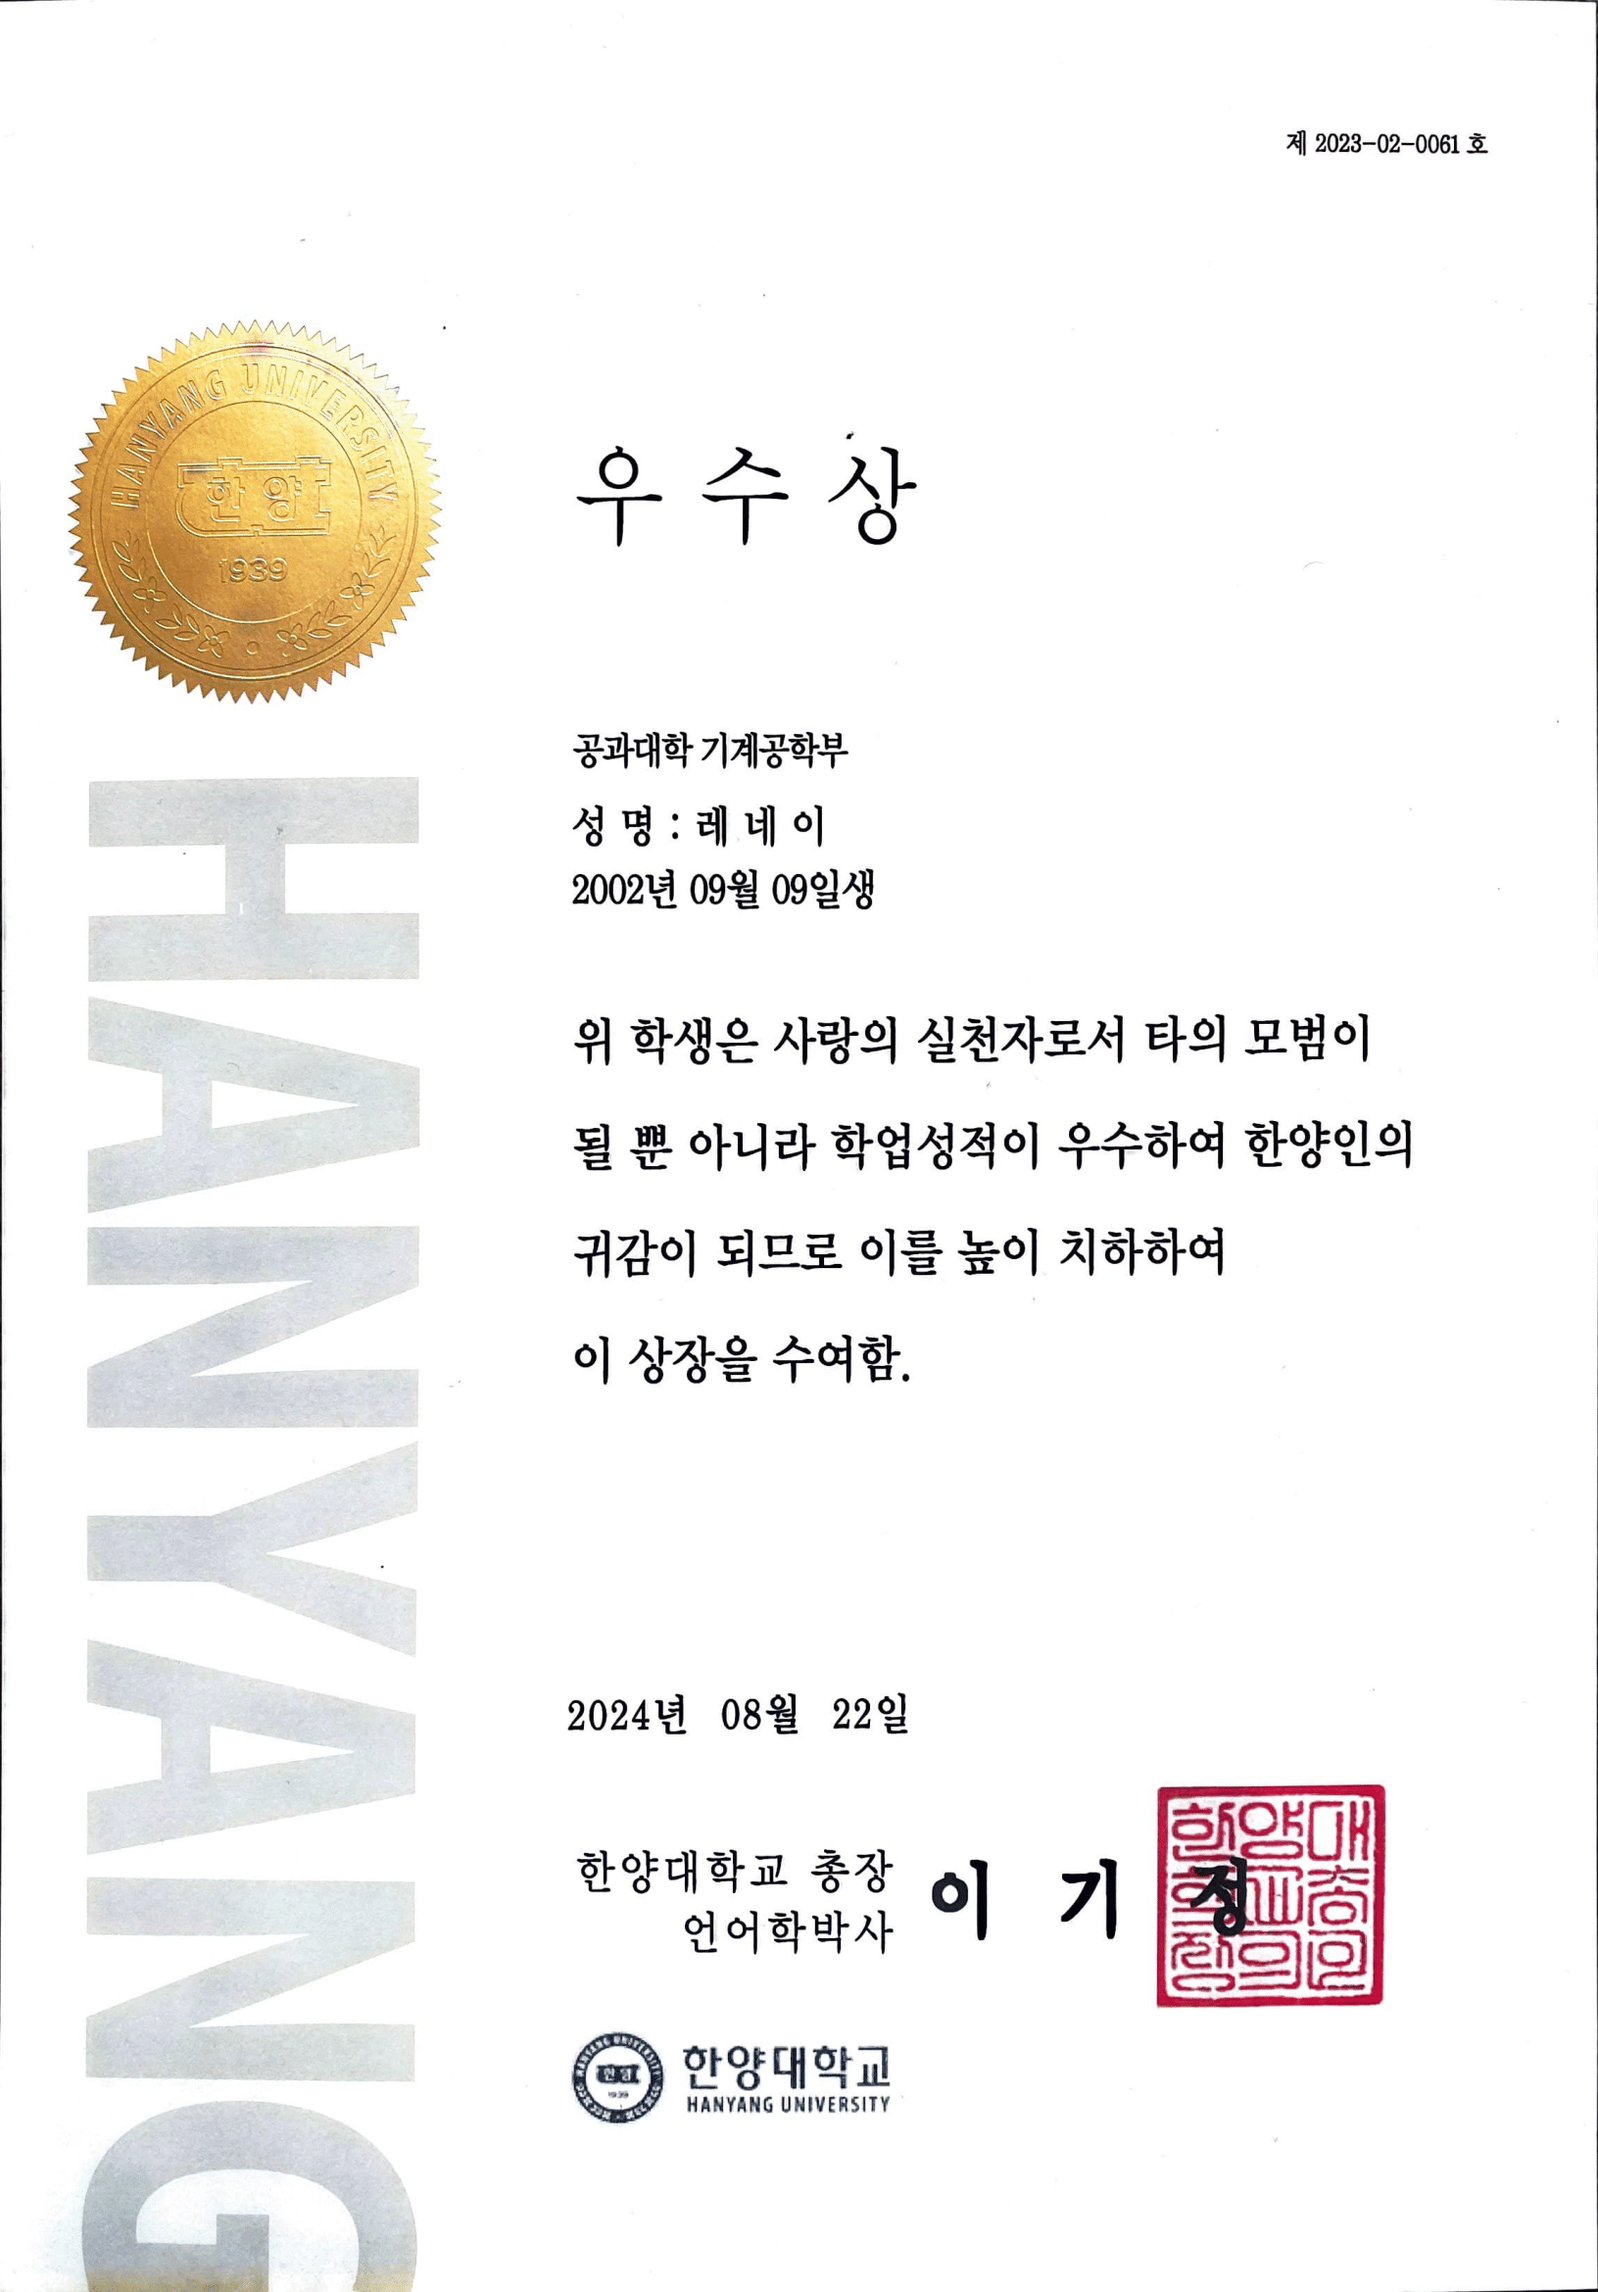
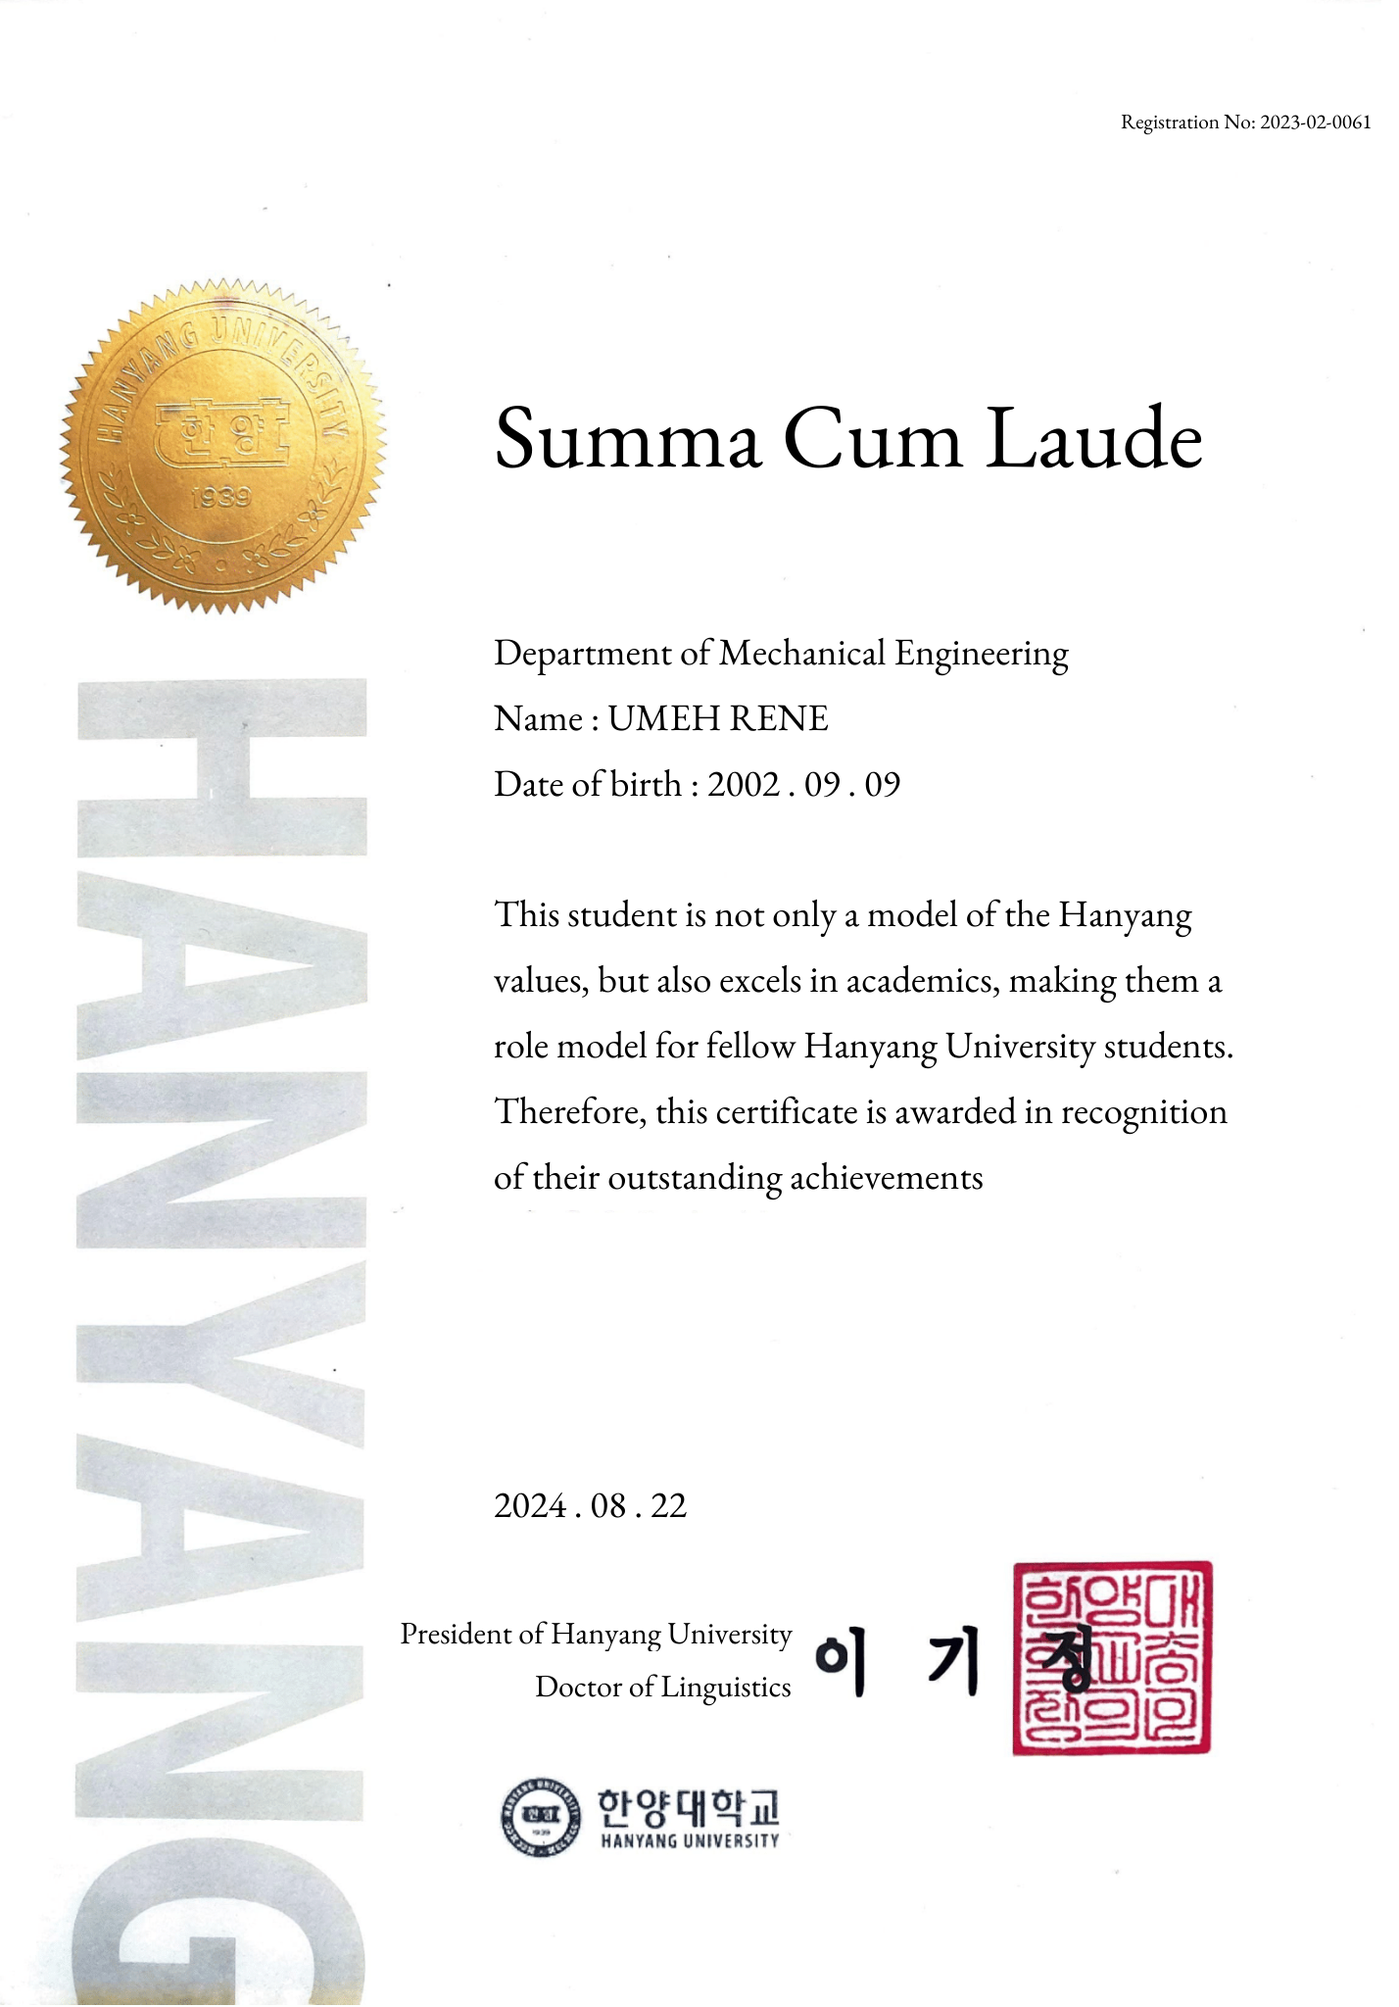
little changes

diff --git a/src/app/config/awards-lists_kor.tsx b/src/app/config/awards-lists_kor.tsx
@@ -54,11 +54,11 @@ export const awardsListHS: Award[] = [
 export const awardsListUni: Award[] = [
     {
         name: '졸업 우수상',
-        image: '/static/grad-honors.png',
+        image: '/static/grad-honors-kor.png',
     },
     {
         name: '졸업 증명서',
-        image: '/static/grad-cert-eng.png',
+        image: '/static/grad-cert-kor.png',
     },
     {
         name: '삼성 글로벌 희망 재단 졸업 증명서',
